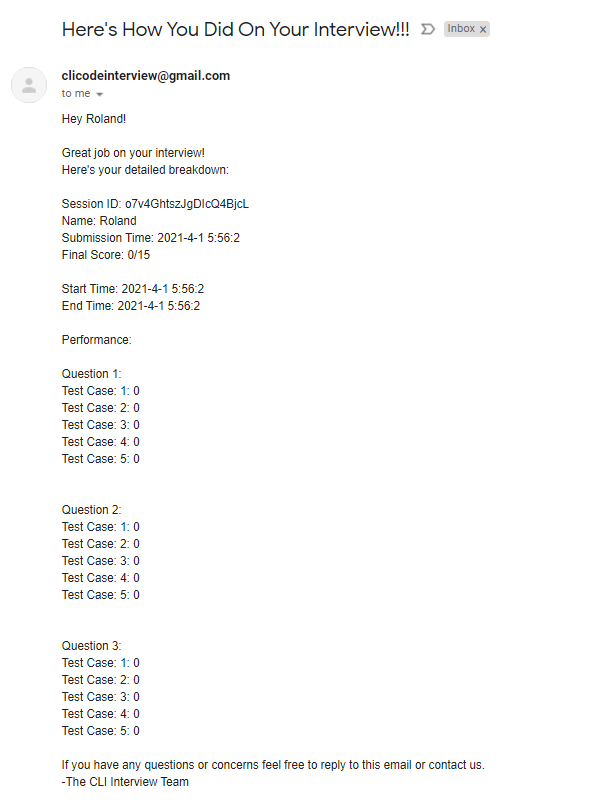
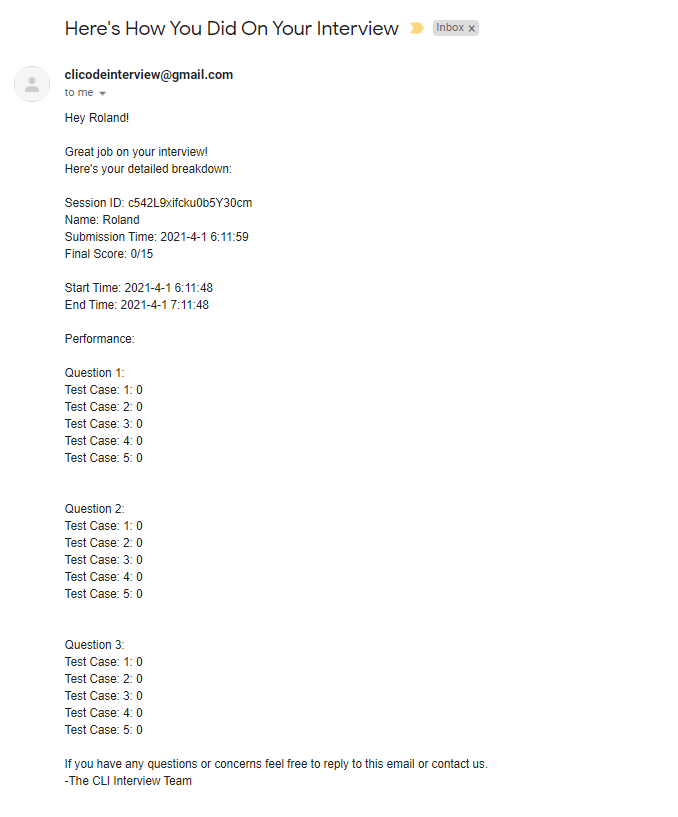
fixed time bug

diff --git a/bin/interview.js b/bin/interview.js
@@ -352,7 +352,7 @@ function endInterview(code) {
             let mailOptionsInterviewee = {
                 from: 'clicodeinterview@gmail.com',
                 to: docdata.email,
-                subject: `Here's How You Did On Your Interview!`,
+                subject: `Here's How You Did On Your Interview`,
                 text: `Hey ${docdata.name}!\n\nGreat job on your interview!\nHere's your detailed breakdown: \n\n` + message + `If you have any questions or concerns feel free to reply to this email or contact us.\n-The CLI Interview Team`
             }
             console.log("Emailing reports...\n");
@@ -400,7 +400,7 @@ function msToTime(duration) {
  * @param {*} time 
  */
 function getFormattedTime(time) {
-    var today = new Date();
+    var today = time;
     var date = today.getFullYear() + '-' + (today.getMonth() + 1) + '-' + today.getDate();
     var time = today.getHours() + ':' + today.getMinutes() + ':' + today.getSeconds();
     return date + ' ' + time;

diff --git a/bin/admin.js b/bin/admin.js
@@ -276,7 +276,7 @@ function emailInterview(docRef) {
  * @param {*} time 
  */
 function getFormattedTime(time) {
-    var today = new Date();
+    var today = time;
     var date = today.getFullYear() + '-' + (today.getMonth() + 1) + '-' + today.getDate();
     var time = today.getHours() + ':' + today.getMinutes() + ':' + today.getSeconds();
     return date + ' ' + time;
